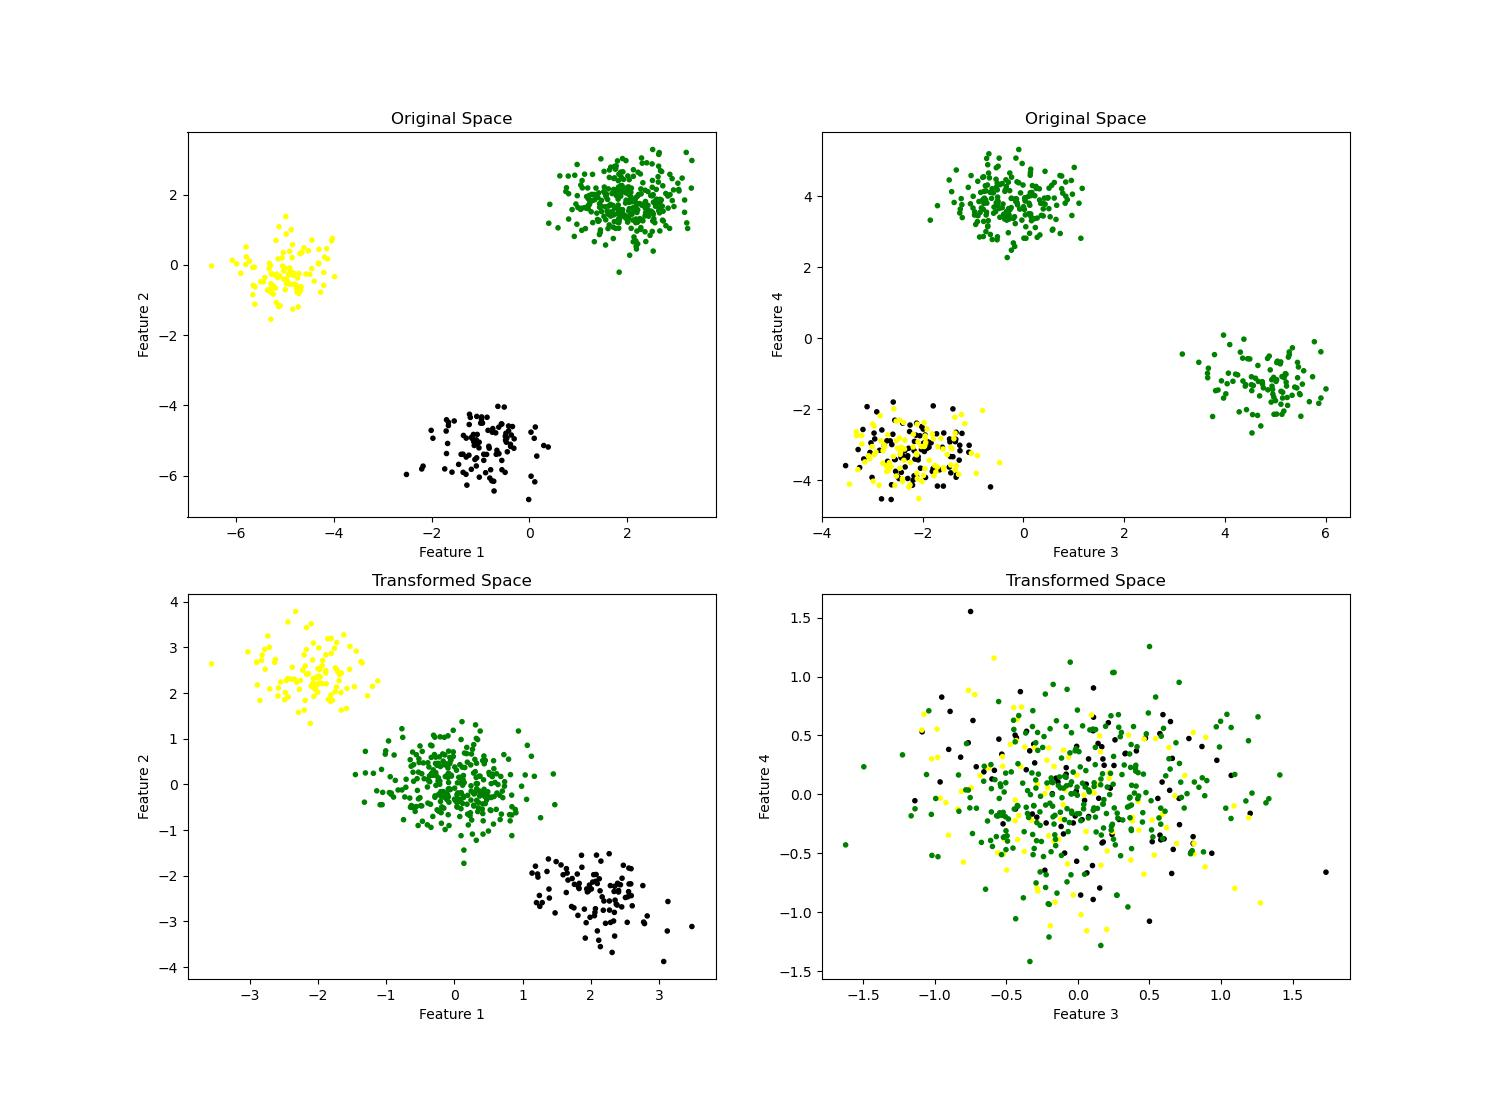
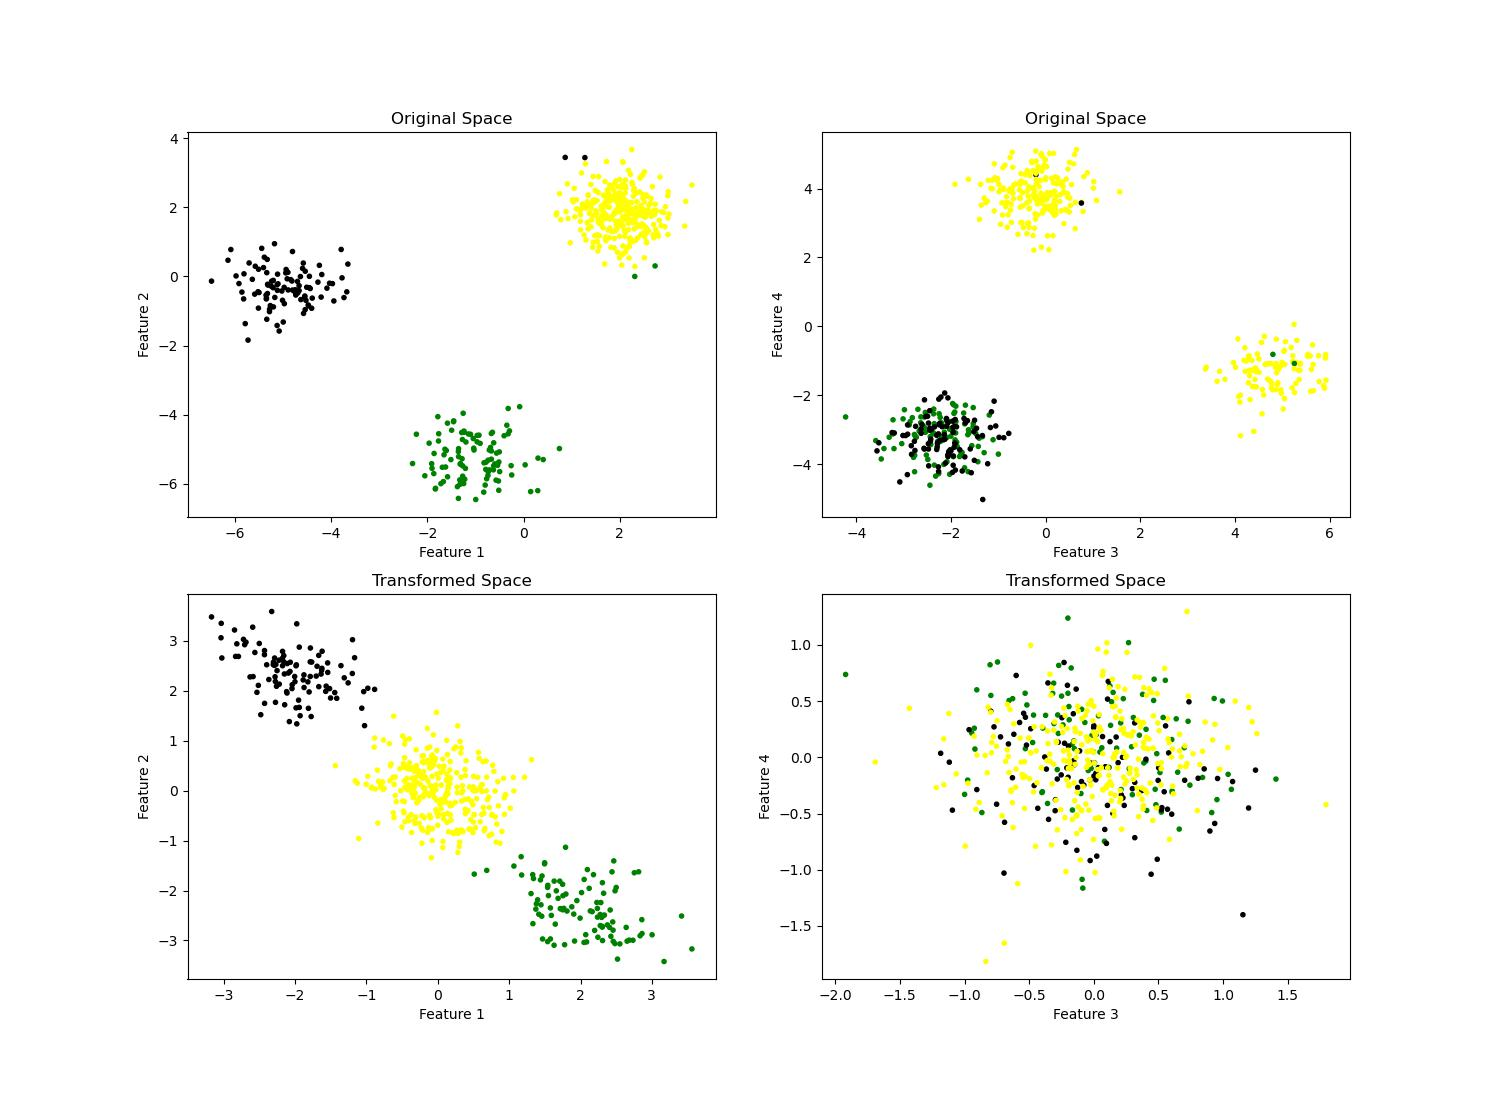
testing

diff --git a/MultiViewClusteringViaOrthogonalization/main_multiview.py b/MultiViewClusteringViaOrthogonalization/main_multiview.py
@@ -171,8 +171,8 @@ def mView_Clustering_via_Orthogonalization(DATA, alternatives, k, datatype):
 
 alternatives = 5 
 
-#DATA, k, datatype, imRow, imCol, imDim = generate_data(type= 'image') 				# 'image'
-DATA, k, datatype  = generate_data(type= '4-3-2') 									# '2-2-3', '4-3-2'
+DATA, k, datatype, imRow, imCol, imDim = generate_data(type= 'image') 				# 'image'
+#DATA, k, datatype  = generate_data(type= '4-3-2') 									# '2-2-3', '4-3-2'
 
 
 mView_Clustering_via_Orthogonalization(DATA, alternatives, k, datatype)
